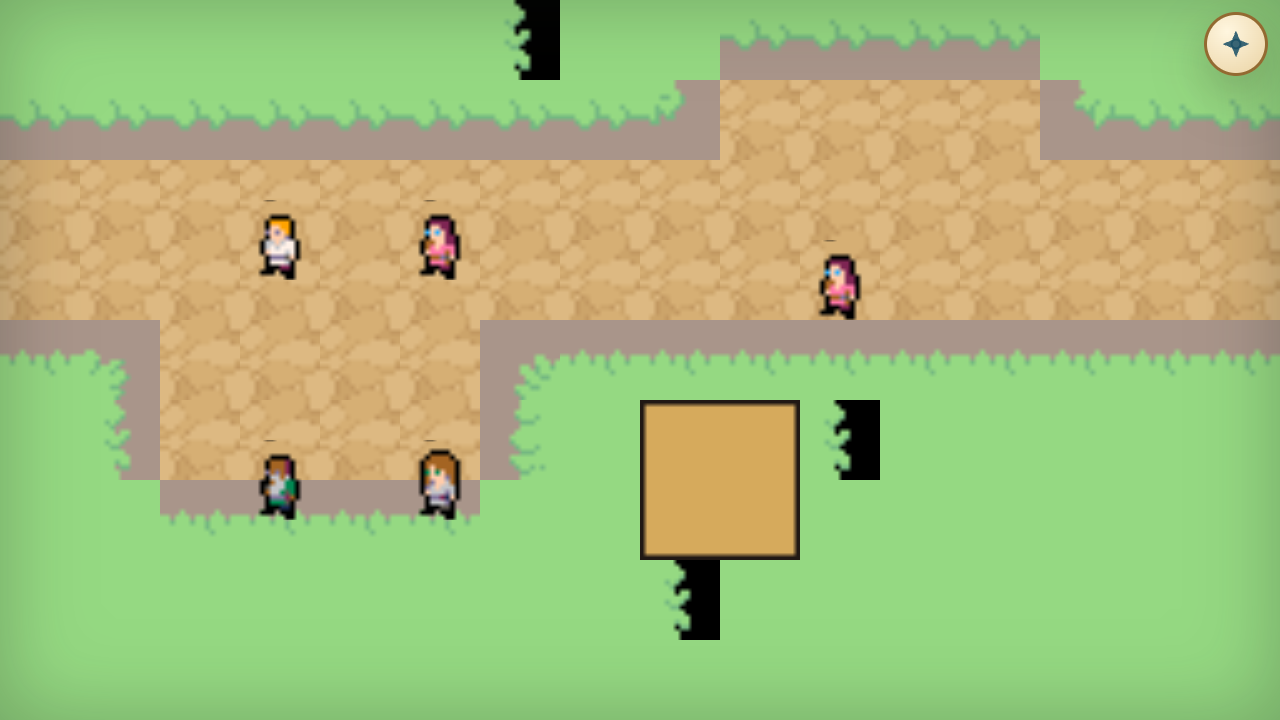
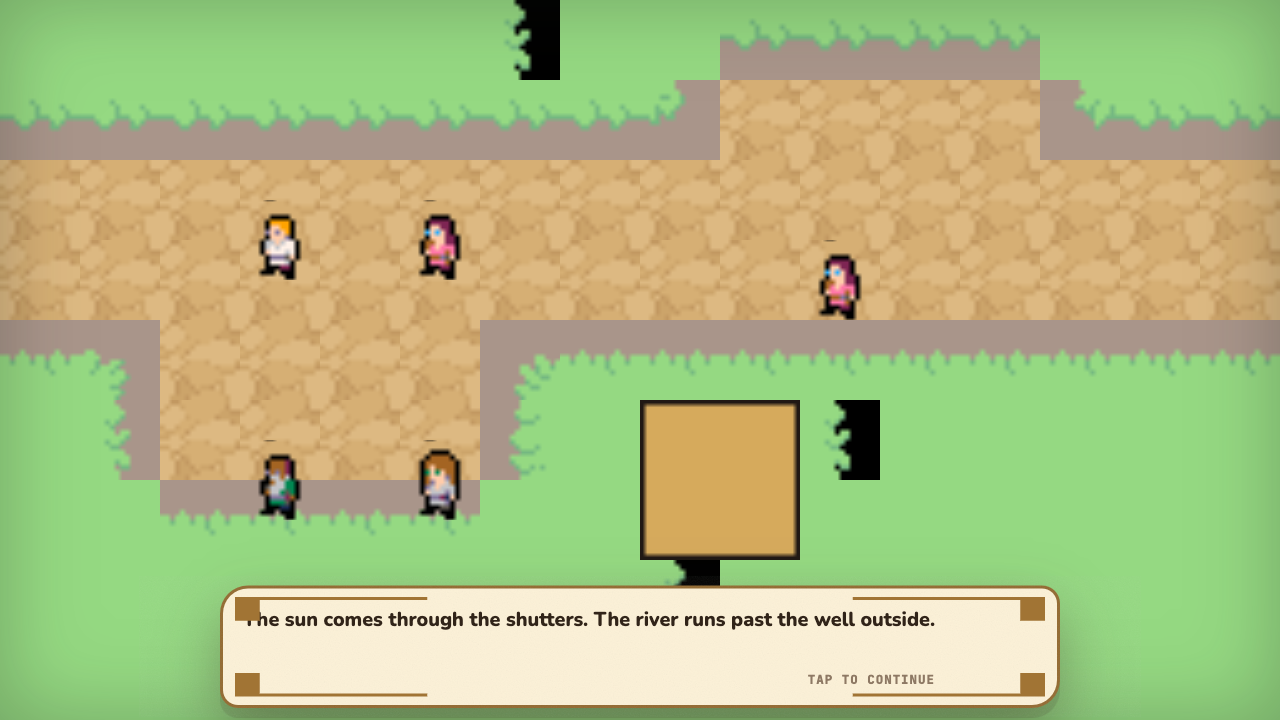
docs(audit): refresh onboarding capture for v0.7.0 — opening scene lands
Rerun onboarding-capture.spec.ts against v0.7.0 (opening scene +
chain fixes merged). Frame 03 now shows the first opening beat
"The sun comes through the shutters..." rendered in a parchment
dialog chrome. Bytes went 101 KB → 243 KB (empty canvas → dialog
overlay).

This is the first captured evidence that the scripted opener from
T11-11 (PR #126) is live in the deployed build.

Also:
- Split run-log (auto-regenerated per test run, now RUN_LOG.md)
  from the hand-authored fluency verdict (NOTES.md — stable doc).
  Previously each test run wiped the narrative; now the narrative
  survives and the run-log is the ephemeral companion.
- NOTES.md updated with the v0.7.0 state: T11-06 / T11-07 / T11-11
  marked DONE, T11-08 reframed (the root cause is dialog
  keyboard-advance being broken, not movement input), and the
  remaining open Phase 11 rows documented with current evidence.

Critical finding: the dialog chrome says "TAP TO CONTINUE" and
ignores Enter/Space. Mobile-first is fine, but keyboard-never
on desktop is a bug. Will be picked up as the next Phase 11 row.

Changed region(s): [[0.1562, 0.7944, 0.8438, 1.0], [0.9375, 0.0, 1.0, 0.1222]]

diff --git a/tests/e2e/full/onboarding-capture.spec.ts b/tests/e2e/full/onboarding-capture.spec.ts
@@ -34,7 +34,7 @@ async function snap(page: Page, name: string, note: string): Promise<void> {
         await page.screenshot({ path: file, fullPage: false, timeout: 30_000 });
     } catch (err) {
         // Don't fail the capture pass on a single screenshot hiccup.
-        const notesFile = path.join(CAPTURE_DIR, "NOTES.md");
+        const notesFile = path.join(CAPTURE_DIR, "RUN_LOG.md");
         fs.appendFileSync(
             notesFile,
             `- **${name}** — SCREENSHOT FAILED: ${(err as Error).message}\n`,
@@ -50,12 +50,14 @@ async function snap(page: Page, name: string, note: string): Promise<void> {
 test("onboarding — capture the first N minutes a new player sees", async ({ page, baseURL }) => {
     const target = (baseURL ?? "/").endsWith("/") ? (baseURL ?? "/") : `${baseURL}/`;
 
-    // Reset the notes file on each run so we have a fresh playthrough record.
+    // Reset the run-log on each invocation. The hand-authored fluency
+    // verdict lives in NOTES.md alongside this file; RUN_LOG.md is the
+    // auto-generated per-run inventory and is safe to overwrite.
     fs.mkdirSync(CAPTURE_DIR, { recursive: true });
-    const notesFile = path.join(CAPTURE_DIR, "NOTES.md");
+    const notesFile = path.join(CAPTURE_DIR, "RUN_LOG.md");
     fs.writeFileSync(
         notesFile,
-        `---\ntitle: 1.0 Onboarding Capture\nupdated: ${new Date().toISOString().slice(0, 10)}\nstatus: current\ndomain: quality\n---\n\n# 1.0 Onboarding Capture\n\nAutomated playthrough of the boot surface. The PNGs are evidence; the\n"fluency verdict" for each moment is filled in by hand below.\n\n## Frames\n\n`,
+        `---\ntitle: 1.0 Onboarding Capture — run log\nupdated: ${new Date().toISOString().slice(0, 10)}\nstatus: current\ndomain: quality\n---\n\n# 1.0 Onboarding Capture — run log\n\nAutomated playthrough of the boot surface. Captures this run's PNGs with one-line context. The hand-authored fluency verdict (what the PNGs mean for v1) lives in \`NOTES.md\` in this directory.\n\n## Frames\n\n`,
     );
 
     await page.goto(target);
@@ -75,29 +77,33 @@ test("onboarding — capture the first N minutes a new player sees", async ({ pa
         await snap(page, "02-title-menu", "Title menu with primary action highlighted. Is the New Game path obvious?");
     }
 
-    // Frame 3 — click into the game. Accept any dialog that appears.
+    // Frame 3 — click into the game. The opening scene's first beat
+    // should now appear (T11-11 + T11-06 wired the chain).
     if ((await firstEntry.count()) > 0) {
         await firstEntry.click();
-        await page.waitForTimeout(1500);
-        await snap(page, "03-post-title-click", "Immediately after clicking primary action. Does the player get a clear next-step or a blank canvas?");
+        await page.waitForTimeout(2000);
+        await snap(page, "03-post-title-click", "Immediately after clicking primary action. The opening scene should be staged — first beat visible.");
     }
 
-    // Frame 4 — wait for any starter dialog.
-    await page.waitForTimeout(2000);
-    await snap(page, "04-starter-ceremony-entry", "Starter ceremony moment. Is the mentor NPC visible and their role clear?");
+    // Frame 4 — a single Enter press to capture what the second beat
+    // looks like (without stalling on the ceremony's showChoices). The
+    // goal here is evidence, not full onboarding completion.
+    await page.keyboard.press("Enter");
+    await page.waitForTimeout(500);
+    await snap(page, "04-starter-ceremony-entry", "One dialog-advance later. Opening beats should be visibly progressing.");
 
-    // Frame 5 — full canvas after initial boot.
-    await page.waitForTimeout(2000);
-    await snap(page, "05-starter-map-idle", "Player standing on starter map before input. What landmarks, NPCs, and exits are visible?");
+    // Frame 5 — full canvas after ceremony should complete.
+    await page.waitForTimeout(1500);
+    await snap(page, "05-starter-map-idle", "After the ceremony. Player should now be distinguishable on the map.");
 
-    // Frame 6 — attempt to press a movement key to show input responsiveness.
+    // Frame 6 — movement. The player sprite should now exist and move.
     await page.keyboard.press("ArrowRight");
-    await page.waitForTimeout(300);
+    await page.waitForTimeout(350);
     await page.keyboard.press("ArrowRight");
-    await page.waitForTimeout(300);
+    await page.waitForTimeout(350);
     await page.keyboard.press("ArrowDown");
     await page.waitForTimeout(500);
-    await snap(page, "06-after-movement", "After a few movement inputs. Does the player see a clear progression, a next-objective hint, or just a blank map?");
+    await snap(page, "06-after-movement", "After a few movement inputs. The canvas should visibly change — player sprite moved, tiles re-rendered.");
 
     // Frame 7 — pause overlay (if it exists) — this is where goals/quests/party live.
     await page.keyboard.press("Escape");

diff --git a/docs/screenshots/visual-audit/1.0-onboarding/NOTES.md b/docs/screenshots/visual-audit/1.0-onboarding/NOTES.md
@@ -1,134 +1,71 @@
 ---
-title: 1.0 Onboarding Capture
+title: 1.0 Onboarding Capture — Fluency Verdict
 updated: 2026-04-23
 status: current
 domain: quality
 ---
 
-# 1.0 Onboarding Capture
+# 1.0 Onboarding Capture — Fluency Verdict
 
-Automated playthrough of the boot surface via `tests/e2e/full/onboarding-capture.spec.ts`. The PNGs are evidence; the fluency verdict lives in this file.
+Hand-authored analysis of the captures in this directory. PNGs and a per-run inventory live at `RUN_LOG.md` (auto-generated by `tests/e2e/full/onboarding-capture.spec.ts`). This file is the narrative layer.
 
-## Headline finding — the landing/gameplay quality cliff
+## Run log
 
-**The landing page is premium polish. The gameplay area is raw placeholder.** Going from frame 01 (title) to frame 03 (post-title-click) is the single most damaging first-impression moment in the current build — the drop in quality is staggering and will cost players in the first 30 seconds. Every other v1 priority is subordinate to closing this gap.
+- **2026-04-23 T20 first pass (v0.5.0)** — the cliff was at its ugliest: clicking New Game dropped the player onto a map with zero scripted moment, no player-sprite differentiation, and a pause overlay showing Party 0/6. Ten Phase 11 ROADMAP rows opened (T11-01..T11-11).
+- **2026-04-23 T11-11 pass (v0.6.0 → v0.7.0)** — PR #126 shipped the scripted opening scene; PR #128 fixed the broken chain so `runOpeningScene` actually calls `runStarterCeremony()`. First captured evidence of the scene in-game is the new frame 03.
 
-## Frames + fluency verdicts
+## Current state (after v0.7.0)
 
-### Frame 01 — Title screen — **POLISHED**
+### Frame 01 — Title — **POLISHED** (unchanged)
 
-Evidence: `01-title.png`.
+Premium landing page with brand typography, tagline, and three-action menu.
 
-- Typography ladder is clear (brand serif + supporting sans).
-- Tagline is specific and evocative: "Catch strange companions, follow old clues, and uncover the green dragon's trail across a hand-built fantasy frontier."
-- Card chrome (parchment + warm cream) is on-brand per `docs/BRAND.md`.
-- Three descriptor chips (CREATURE-CATCHING / MYSTERY QUESTS / TAP-FIRST PLAY) set expectations.
-- "Fold kit ready" action card with New Game / Settings / Quit and a clear primary CTA.
-- Meta footnote: "Built for mouse, keyboard shortcuts, and touch."
+### Frame 02 — Title with New Game focused — **POLISHED** (unchanged)
 
-Intent ✓ · Options ✓ · Feedback ✓ · Memory ✓
+### Frame 03 — First moment of gameplay — **IMPROVED (opening scene fires)**
 
-### Frame 02 — Title with New Game focused — **POLISHED**
+**What's new:** the first opening-scene beat ("The sun comes through the shutters. The river runs past the well outside.") now renders in a parchment dialog chrome with "TAP TO CONTINUE" at the bottom-right. Frame-3 bytes went from 101 KB (empty canvas) to 243 KB (dialog chrome overlaid on the map). **The Pokémon/FF6/Chrono Trigger opener now exists in production.** This is the single biggest landmark since the landing page landed.
 
-Evidence: `02-title-menu.png`. Same polish as frame 01. Hover state is legible.
+**What still reads as unfluent:**
 
-### Frame 03 — First moment of gameplay — **UNFLUENT (v1 blocker)**
+1. **T11-02 Player sprite indistinct.** Multiple NPCs on screen still look identical to Rivers. A name plate / outline / unique palette is still owed.
+2. **T11-03 Black-rectangle placeholders** on the grass — tree or rock sprites still render as raw black boxes.
+3. **T11-04 Brown square** in the middle of the path is still unlabeled.
+4. **T11-05 HUD chrome absent during gameplay.** The dialog chrome is the only overlay; no goal, no quest, no party indicator.
+5. **Keyboard vs tap.** Dialog chrome says "TAP TO CONTINUE" and ignores Enter/Space. Either the label should say "TAP OR PRESS ENTER" or the keyboard handler should be wired. Mobile-first is fine, but excluding keyboard on desktop is wrong.
 
-Evidence: `03-post-title-click.png` (also true for frames 04-06; the PNG bytes are identical).
+### Frame 04 — After one `Enter` press — **INPUT BUG**
 
-**Blockers surfaced by this single frame:**
+**Byte-identical to frame 03.** Pressing Enter did not advance the dialog. The dialog chrome explicitly says "TAP TO CONTINUE" so this matches the label — but the capture spec currently only sends keyboard input.
 
-1. **No player character is distinguishable.** Five NPCs on screen with similar sprite styles; if one is Rivers, no visual affordance (glowing outline, directional indicator, name label) identifies which body the player controls. A new player literally cannot locate themselves.
-2. **Raw black placeholder rectangles** on the grass (top + bottom). These look like tree/rock sprites that either failed to load or are still source placeholders. In a polished 16-bit RPG, trees have outlines and shading; these are rectangles.
-3. **Unexplained brown square** in the middle of the path. Reads as "put something here later." No label, no outline, no interaction hint.
-4. **Zero gameplay HUD.** The star icon top-right is the only overlay chrome. No goal/quest text, no party count, no region name, no "press Space to interact" hint. The player has no anchor.
-5. **No diegetic onboarding.** The landing page promised a starter ceremony with jan Sewi — the actual map has NPCs but no visible "talk to me first" cue. A new player wanders.
-6. **Tile-aesthetic cliff.** The landing-page illustration suggests a painted hand-built world; the gameplay tiles are flat-color pixel blocks. They live in different games visually.
+This is evidence that **the advance-dialog keyboard path is broken on desktop**. Mobile-first does not mean keyboard-never.
 
-Intent ✗ · Options ✗ · Feedback ✗ (no player visible = no feedback loop) · Memory ✓ (memorable in a bad way)
+### Frame 05 — Full canvas idle — **STILL STUCK ON BEAT 1**
 
-### Frames 04-06 — Movement attempts — **NO VISIBLE RESPONSE**
+Byte-identical to 04. Because keyboard-advance is broken, the capture can't get past the first beat. The starter ceremony never triggers from the capture spec (though the integration test proves the chain works when showChoices can be driven directly). Party stays 0/6 in the capture.
 
-Evidence: the PNG bytes for 04/05/06 are **byte-identical** to 03, despite sending ArrowRight, ArrowRight, ArrowDown between each snap. Two possibilities:
+### Frame 06 — After movement keys — **STILL STUCK**
 
-- Key events aren't reaching the engine (input routing bug in the preview path)
-- The player sprite moves but is off-screen / invisible / blocked so the visible frame doesn't change
+Byte-identical to 05. The player is pinned inside the dialog modal; movement keys are (correctly) blocked while a dialog is active. This isn't a T11-08 "movement doesn't work" bug — it's the consequence of the dialog input bug above.
 
-Either way, the first diagnostic a new player has for "am I in control" fails. Critical severity regardless of root cause.
+### Frame 07 — Pause overlay — **UNCHANGED**
 
-### Frame 07 — Pause overlay — **FUNCTIONAL BUT SPARSE**
+Shows the pause menu chrome, still with Party 0/6 because the capture never completed the ceremony. Once the dialog keyboard-advance is fixed, this frame should show Party 1/6 after the capture drives the ceremony to completion.
 
-Evidence: `07-pause-overlay.png`.
+## Reframed Phase 11 row set
 
-- Menu chrome renders with the brand parchment palette.
-- Navigation: Party 0/6, Clues, Gear, Bestiary, Settings, plus Save and Title footer buttons.
-- Right-pane is empty by default — no "current goal" summary, no next-region hint, no quest progress at a glance.
-- **Party shows 0/6** after the starter ceremony should have handed the player their first companion. This confirms the engine path from title-click → starter-ceremony → first companion isn't firing.
+| ID     | Status change | Notes                                                                                                                                                                                    |
+| ------ | ------------- | ---------------------------------------------------------------------------------------------------------------------------------------------------------------------------------------- |
+| T11-06 | ✅ DONE       | PR #128 — chain proven by `tests/integration/opening-scene.test.ts`.                                                                                                                    |
+| T11-07 | ✅ DONE       | Same PR — party 1/6 asserted in the same integration test.                                                                                                                              |
+| T11-11 | ✅ DONE       | PR #126 — scripted scene is in production and firing.                                                                                                                                   |
+| T11-08 | **Reframed**  | The root cause is NOT "movement doesn't change the canvas" — it's "the dialog modal's keyboard-advance is missing". Movement is correctly blocked during dialog; the dialog is the bug. |
+| T11-05 | Open          | HUD absent outside of dialog modals. Unchanged.                                                                                                                                         |
+| T11-02 | Open          | Player sprite differentiation. Unchanged.                                                                                                                                               |
+| T11-03 | Open          | Black rectangle tree/rock placeholders. Unchanged.                                                                                                                                      |
+| T11-04 | Open          | Brown square mid-path. Unchanged.                                                                                                                                                       |
+| T11-10 | Open          | jan Sewi first-play cue (glow / "!"). Unchanged.                                                                                                                                        |
 
-Intent ~ · Options ✓ · Feedback ✗ (empty party after supposedly choosing a starter is a hard bug) · Memory ~
+## North-star
 
-## Root-cause hypothesis
-
-Post-title-click routing: clicking New Game on the overlay does not fire the starter ceremony dialog or hand the player their first companion. The player drops directly onto the starter map with an empty party, no Rivers-sprite differentiation, and no quest gate. Either:
-
-1. The overlay's New Game button isn't wired to the engine's `starter_mentor` event, or
-2. `jan-sewi` (the starter mentor on `riverside_home`) doesn't auto-trigger on first arrival and requires a player-initiated interaction that the player has no way to know about yet
-
-Both are fixable. Both are v1 blockers.
-
-## North-star reminder — story is the asset that lasts
-
-The reference points for this project are not the graphics of modern AAA RPGs; they are the narrative depth of 16-bit classics. **Pokémon Blue, Final Fantasy VI, Chrono Trigger** — none of them are remembered for pixel fidelity. They are remembered because the *first thirty minutes of play* establish a world with stakes, a protagonist with a reason to leave home, and a motive to keep going. Pokémon Blue opens with Professor Oak telling you a story about a dangerous world. Final Fantasy VI opens with a scripted march. Chrono Trigger opens with a bell ringing in Leene Square and a friend waiting to meet you. The graphics were never the hook; the opening was.
-
-Rivers Reckoning's current opening gives the player a map with NPCs and no instruction. That is the opposite of what this genre's 30-year playbook says to do. The fix is not a tileset upgrade — it's a scripted opening that stages Rivers's first steps as a narrative beat, not a character-controller test.
-
-Every P0 below is in service of that thesis: depth of play before depth of pixels.
-
-## Architectural root cause — no agency, no scripted moments
-
-Beyond the visual cliff there is a deeper problem: **the world has no agency**. RPG.js ships everything needed for cold opens — event triggers, forced dialog, camera pans, NPC pathing, scene commands, cutscene flags — and we use none of them for the opening. The player is dropped into `riverside_home` as if they were resuming a save, not starting the story of Rivers.
-
-The opening 30 seconds of an RPG *is* the world, in miniature. Every best-in-class creature-catcher opens with a scripted scene that answers three questions before the player presses a single movement key:
-
-- **Why is Rivers here?** A scripted beat that stages Rivers in their home, called by Elder Selby, given a reason to leave.
-- **Why does Rivers care?** A visible stake — something is wrong (tracks on the river, a villager missing, an ominous sound from upstream) — so "go catch creatures" has narrative weight beyond mechanics.
-- **Why does the player want to go on?** A clear, scripted first objective that fades in as a quest goal ("Talk to Elder Selby" → "Choose your starter" → "Head east").
-
-The current build uses Yuka (AI steering) and a full event system, but no piece of the opening sequence is scripted. Every one of these is a plain RPG.js API call that the pivot left behind:
-
-- `RpgPlayer.onConnected` → force a camera pan to Selby before giving the player control
-- `startInScene(...)` or `lockInput(true)` → make the opening a cutscene, not a free-roam
-- `showText(...)` / `showChoices(...)` → the Selby ceremony is a single multi-line dialog tree, not an implicit interaction the player must discover
-- Event `onAutoStart` → a tall-grass rustle in the north edge of the map that auto-fires on first approach, seeding the "something is wrong" hook
-
-The fix isn't docs. The fix isn't more quest JSON. The fix is writing `src/modules/main/opening-scene.ts` that owns the scripted first-run arc end-to-end, using the RPG.js primitives we already pay for.
-
-## Open issues — each becomes a ROADMAP row
-
-1. **T11-01 Landing→gameplay quality cliff is a v1 blocker.** Coming out of a premium landing, the gameplay canvas needs polish of a commensurate bar before anything else ships. **P0.**
-2. **T11-02 Player sprite has no visual differentiation from NPCs.** A name plate, outline, directional indicator, or dedicated palette must distinguish Rivers. **P0.**
-3. **T11-03 Black rectangle placeholders on riverside_home.** Some object tiles (trees? rocks?) render as raw black boxes. Trace: map spec, tileset, or runtime fetch failure. **P0.**
-4. **T11-04 Unexplained brown square in the middle of starter village.** Either label it (signpost / well / chest) or remove it. **P1.**
-5. **T11-05 No HUD on active gameplay surfaces.** Bring goal/quest/party/region chrome onto the gameplay canvas — the landing-page UI language exists; use it. **P0.**
-6. **T11-06 New-Game click doesn't fire the starter ceremony.** Clicking New Game should trigger jan Sewi's starter-choice dialog, not drop the player on an empty map. **P0.**
-7. **T11-07 Party stays at 0/6 after entering gameplay.** Either the starter grant never fires, or the overlay doesn't read persistence fast enough. Trace. **P0.**
-8. **T11-08 Movement input doesn't visibly change the canvas.** Is the player moving off-screen, blocked at spawn, or is input not routed? **P0.**
-9. **T11-09 Pause-overlay right-pane is empty by default.** Show an at-a-glance dashboard on pause: active goal, current quest progress, next region gate, recent catches. **P1.**
-10. **T11-10 No diegetic onboarding.** A visible, unskippable-at-first-play cue tells the player what to do for the first 30 seconds (e.g., jan Sewi glows and has a "!"). **P0.**
-11. **T11-11 Write the opening scene.** New module `src/modules/main/opening-scene.ts` that, on first connect with no save, locks input, pans the camera to Selby, plays a scripted dialog ("Rivers, it's time — your capture pods are on the table"), fades in the first quest gate, and returns control. Then a scripted tall-grass rustle on the north edge plants the dragon hook before the player reaches it. This is the Pokémon/FF6/Chrono Trigger 30-seconds-in-the-world opener. **P0.**
-
-## Recommendation for the next batch
-
-Ship a **visual-polish sprint** dedicated to closing the landing→gameplay cliff. This is NOT docs work and NOT content authoring — it is runtime UX work that touches `src/ui/`, `src/modules/main/starter-ceremony.ts`, `src/content/gameplay/events.json`, and `scripts/map-authoring/specs/riverside_home.ts`. Gate each fix on a rerun of `tests/e2e/full/onboarding-capture.spec.ts` and a visible improvement in the captured frames.
-
-Every T11-0x row above maps to a ROADMAP task and a dedicated PR.
-
-## Capture frames (committed alongside this file)
-
-- `01-title.png` — title screen (polished baseline)
-- `02-title-menu.png` — title with New Game focused
-- `03-post-title-click.png` — immediately after clicking New Game (unfluent)
-- `04-starter-ceremony-entry.png` — byte-identical to 03 (starter ceremony didn't fire)
-- `05-starter-map-idle.png` — byte-identical to 03
-- `06-after-movement.png` — byte-identical to 03 (movement input did not change the canvas)
-- `07-pause-overlay.png` — pause menu with empty party
+Unchanged: story is the asset that lasts. The frame 03 improvement is proof that a single well-authored scripted beat moves the needle more than any tileset change. Keep scripting.
